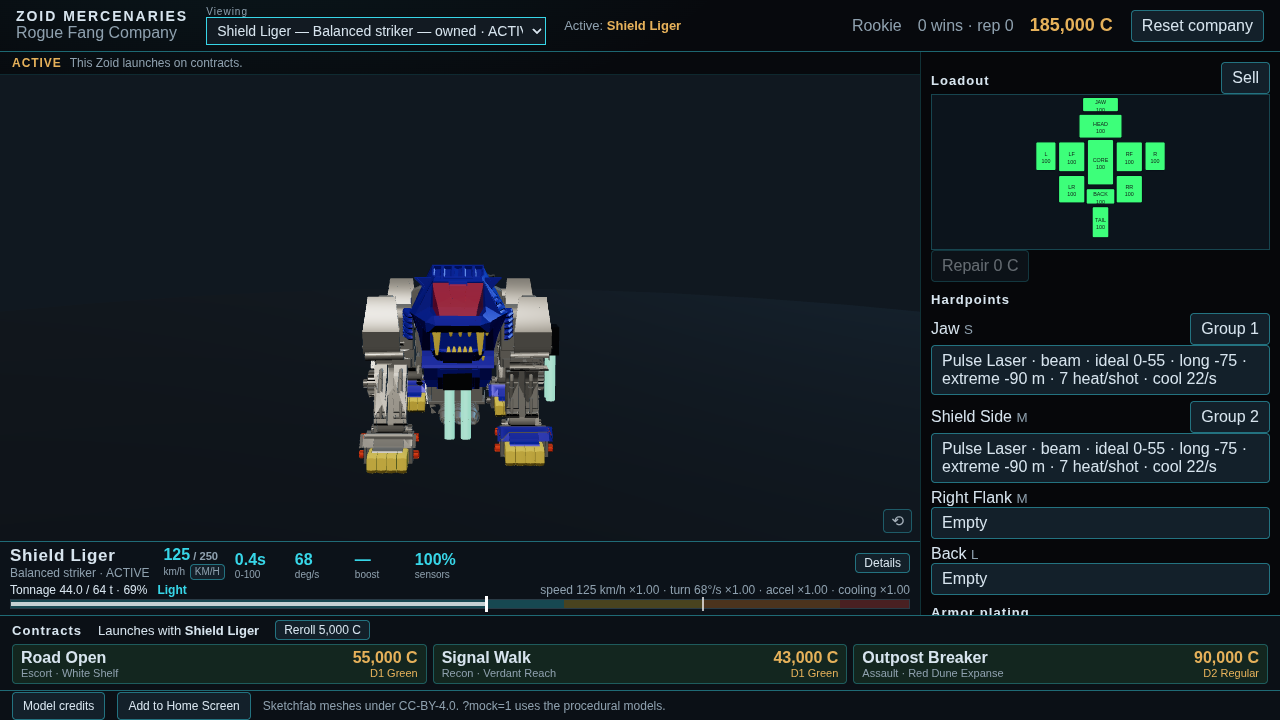
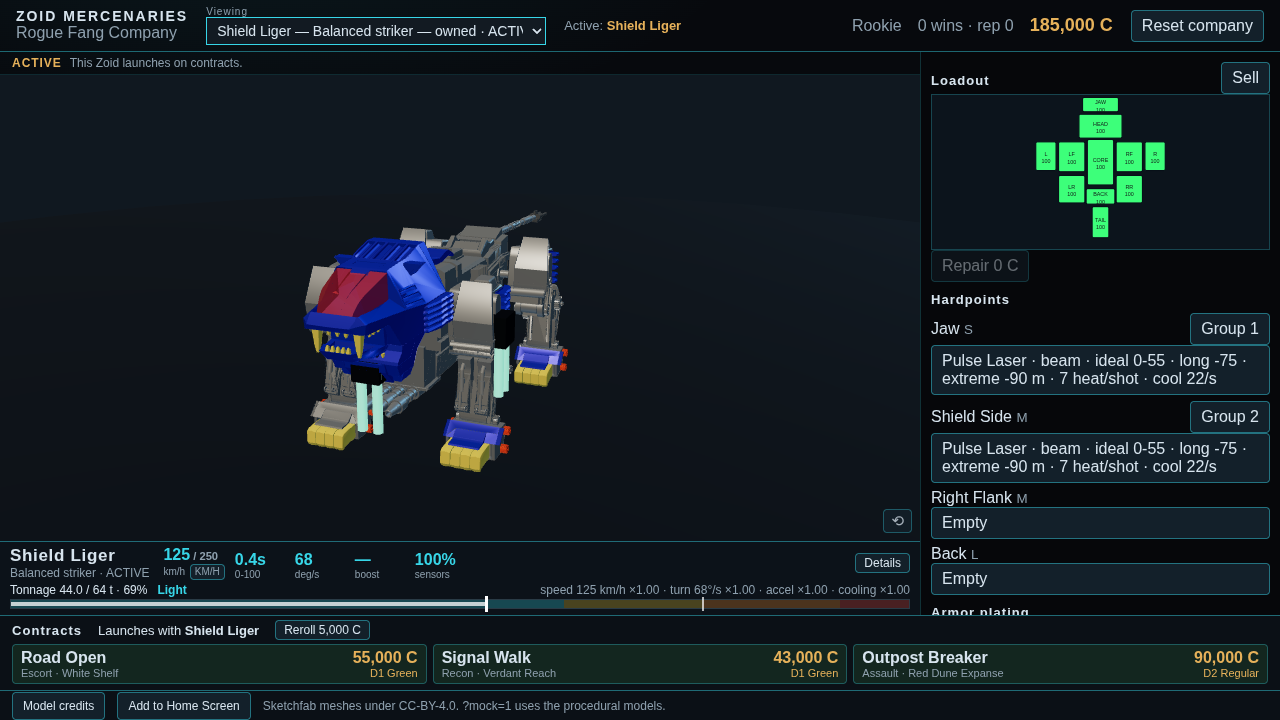
Hangar viewer: true spherical orbit (360 yaw, pitch -85..+85, no flip), floor hidden from below + under fill light, zoom 0.35-2.5x with no-clip distance floor, right-drag/two-finger pan; tests for top/underside/rear/zoom bounds; notes; sw zoids-v4

Changed region(s): [[0.2188, 0.275, 0.4688, 0.6722]]

diff --git a/js/hangar.js b/js/hangar.js
@@ -491,6 +491,7 @@ export function showHangar(state, hooks) {
   window.__ZOIDS__.ready = true;
   window.__ZOIDS__.previewParts = () => preview.parts();
   window.__ZOIDS__.previewView = () => preview.viewState();
+  window.__ZOIDS__.previewSetView = (v) => preview.setView(v);
   window.__ZOIDS__.installMode = installMode;
 
   let closed = false;
@@ -547,13 +548,17 @@ function createPreview(canvas) {
   const scene = new Scene();
   scene.background = new Color(0x101820);
   const camera = new PerspectiveCamera(32, 1, 0.1, 200);
-  scene.add(new HemisphereLight(0xd7e6f2, 0x1c140e, 0.85));
+  scene.add(new HemisphereLight(0xd7e6f2, 0x3a3f48, 0.85));
   const key = new DirectionalLight(0xfff4e0, 1.6);
   key.position.set(-4, 8, 6);
   scene.add(key);
   const rim = new DirectionalLight(0x6ec8ff, 0.6);
   rim.position.set(6, 3, -4);
   scene.add(rim);
+  // Soft fill from below so the underside view isn't a silhouette.
+  const under = new DirectionalLight(0x9fb8cc, 1.4);
+  under.position.set(1, -8, 2);
+  scene.add(under);
   const floor = new Mesh(
     new CircleGeometry(18, 40),
     new MeshStandardMaterial({ color: 0x1a222c, roughness: 1, metalness: 0 }),
@@ -562,20 +567,25 @@ function createPreview(canvas) {
   scene.add(floor);
   let model = null;
   const SPIN0 = Math.PI - 0.55;
-  const LIFT0 = 0.32;
+  // Default orbit = the old fixed framing (behind-left of the nose, slightly raised).
+  const AZ0 = Math.atan2(0.38, 1);
+  const PITCH0 = Math.atan2(0.32, Math.hypot(1, 0.38));
+  const PITCH_MIN = (-85 * Math.PI) / 180;
+  const PITCH_MAX = (85 * Math.PI) / 180;
   let spin = SPIN0;
   let running = true;
 
   // Showcase controls (custom; three's OrbitControls isn't vendored).
-  // Drag = rotate (yaw) and tilt (camera lift), wheel / pinch = zoom within
-  // limits scaled by the Zoid's size, double-click / double-tap / reset button
-  // = default view. Auto-spin pauses while interacting, resumes after 3 s.
-  const ZOOM_MIN = 0.55;
-  const ZOOM_MAX = 1.8;
-  const LIFT_MIN = -0.05;
-  const LIFT_MAX = 1.1;
+  // True spherical orbit around the model's centre: drag = 360 yaw + pitch
+  // from -85 (underside) to +85 (top-down), clamped so lookAt never flips.
+  // Wheel / pinch = zoom (limits scale with the Zoid's size, and the camera
+  // never gets closer than the model's bounding radius). Right-drag or
+  // two-finger drag pans. Double-click / double-tap / reset button = default.
+  // Auto-spin pauses while interacting, resumes after 3 s.
+  const ZOOM_MIN = 0.35;
+  const ZOOM_MAX = 2.5;
   const RESUME_MS = 3000;
-  const view = { yaw: 0, zoom: 1, lift: LIFT0, lastInput: -Infinity, dragging: false };
+  const view = { yaw: 0, pitch: PITCH0, zoom: 1, panX: 0, panY: 0, mode: "orbit", lastInput: -Infinity, dragging: false };
   const pointers = new Map();
   let pinchDist = 0;
   let lastTap = 0;
@@ -587,12 +597,31 @@ function createPreview(canvas) {
   function resetView() {
     spin = SPIN0;
     view.yaw = 0;
+    view.pitch = PITCH0;
     view.zoom = 1;
-    view.lift = LIFT0;
+    view.panX = 0;
+    view.panY = 0;
     view.lastInput = -Infinity;
   }
   function zoomBy(factor) {
     view.zoom = clampN(view.zoom * factor, ZOOM_MIN, ZOOM_MAX);
+    touch();
+  }
+  function orbitBy(dx, dy) {
+    view.yaw -= dx * 0.01;
+    view.pitch = clampN(view.pitch + dy * 0.01, PITCH_MIN, PITCH_MAX);
+  }
+  function panBy(dx, dy) {
+    const lim = (model && model.frameSize ? model.frameSize : 6) * 0.6;
+    const k = (view.dist || 10) * 0.0016;
+    view.panX = clampN(view.panX - dx * k, -lim, lim);
+    view.panY = clampN(view.panY + dy * k, -lim, lim);
+    touch();
+  }
+  function setView(v) {
+    if (v.yaw != null) view.yaw = v.yaw;
+    if (v.pitch != null) view.pitch = clampN(v.pitch, PITCH_MIN, PITCH_MAX);
+    if (v.zoom != null) view.zoom = clampN(v.zoom, ZOOM_MIN, ZOOM_MAX);
     touch();
   }
   function onDown(e) {
@@ -600,6 +629,7 @@ function createPreview(canvas) {
     try { canvas.setPointerCapture(e.pointerId); } catch { /* synthetic or already released */ }
     pointers.set(e.pointerId, { x: e.clientX, y: e.clientY });
     view.dragging = true;
+    view.mode = e.button === 2 || e.shiftKey ? "pan" : "orbit";
     touch();
     if (pointers.size === 2) {
       const [a, b] = [...pointers.values()];
@@ -631,10 +661,12 @@ function createPreview(canvas) {
       const d = Math.hypot(a.x - b.x, a.y - b.y);
       if (pinchDist > 0 && d > 0) zoomBy(pinchDist / d);
       pinchDist = d;
+      // Two-finger drag pans by half of each finger's move (midpoint shift).
+      panBy((cur.x - prev.x) / 2, (cur.y - prev.y) / 2);
       return;
     }
-    view.yaw -= (cur.x - prev.x) * 0.01;
-    view.lift = clampN(view.lift + (cur.y - prev.y) * 0.004, LIFT_MIN, LIFT_MAX);
+    if (view.mode === "pan") panBy(cur.x - prev.x, cur.y - prev.y);
+    else orbitBy(cur.x - prev.x, cur.y - prev.y);
     touch();
   }
   function onUp(e) {
@@ -702,23 +734,33 @@ function createPreview(canvas) {
       model.root.getWorldDirection(fwd);
       fwd.y = 0;
       fwd.normalize();
-      // User orbit: swing the camera around the Zoid by view.yaw.
-      fwd.applyAxisAngle(UP, view.yaw);
       const right = new Vector3().crossVectors(fwd, UP);
-      // Pulled in ~20% now the stage has the whole centre column to itself.
-      // Big frames (Elephander) also back the camera off by their real size.
       if (!model.frameSize) {
-        const size = new Box3().setFromObject(model.visual).getSize(new Vector3());
+        const box = new Box3().setFromObject(model.visual);
+        const size = box.getSize(new Vector3());
         model.frameSize = Math.max(size.x, size.y, size.z);
+        model.frameRadius = size.length() / 2;
+        model.frameCenterY = box.getCenter(new Vector3()).y - model.root.position.y;
       }
-      // Zoom limits follow the Zoid's size because dist does.
-      const dist = Math.max((8 + (model.def.scale || 1) * 4.2) * 0.8, model.frameSize * 1.75) * view.zoom;
+      // Zoom limits follow the Zoid's size because the base distance does;
+      // never closer than the bounding radius + near-plane margin.
+      const base = Math.max((8 + (model.def.scale || 1) * 4.2) * 0.8, model.frameSize * 1.75);
+      const dist = Math.max(base * view.zoom, model.frameRadius * 1.15 + 0.5);
       view.dist = dist;
-      camera.position.copy(model.root.position)
-        .addScaledVector(fwd, -dist)
-        .addScaledVector(right, dist * 0.38)
-        .add(new Vector3(0, dist * view.lift, 0));
-      camera.lookAt(0, 1.6 * (model.def.scale || 1), 0);
+      // Spherical orbit around the model's centre (+ pan in screen space).
+      const az = AZ0 + view.yaw;
+      const horiz = fwd.clone().multiplyScalar(-Math.cos(az)).addScaledVector(right, Math.sin(az));
+      const dir = horiz.multiplyScalar(Math.cos(view.pitch)).add(new Vector3(0, Math.sin(view.pitch), 0)).normalize();
+      const center = new Vector3(model.root.position.x, model.root.position.y + model.frameCenterY, model.root.position.z);
+      const camRight = new Vector3().crossVectors(UP, dir).normalize();
+      const camUp = new Vector3().crossVectors(dir, camRight).normalize();
+      center.addScaledVector(camRight, view.panX).addScaledVector(camUp, view.panY);
+      camera.position.copy(center).addScaledVector(dir, dist);
+      camera.up.copy(UP);
+      camera.lookAt(center);
+      view.center = center;
+      // Below the floor: hide it so the underside is visible cleanly.
+      floor.visible = camera.position.y > 0.05;
     }
     resize();
     renderer.render(scene, camera);
@@ -729,10 +771,19 @@ function createPreview(canvas) {
   return {
     show,
     viewState() {
-      return { spin, yaw: view.yaw, zoom: view.zoom, lift: view.lift, dist: view.dist || 0, dragging: view.dragging,
+      const c = view.center || new Vector3();
+      const fwd = new Vector3();
+      if (model) { model.root.getWorldDirection(fwd); fwd.y = 0; fwd.normalize(); }
+      const toCam = camera.position.clone().sub(c).setY(0).normalize();
+      return { spin, yaw: view.yaw, pitch: view.pitch, pitchDeg: (view.pitch * 180) / Math.PI, zoom: view.zoom,
+        panX: view.panX, panY: view.panY, dist: view.dist || 0, radius: model ? model.frameRadius : 0,
+        camY: camera.position.y, centerY: c.y, floorVisible: floor.visible,
+        // +1 = camera on the tail side (rear view), -1 = nose side.
+        tailSide: toCam.dot(fwd), dragging: view.dragging,
         autoSpin: !view.dragging && performance.now() - view.lastInput > RESUME_MS, zoomMin: ZOOM_MIN, zoomMax: ZOOM_MAX };
     },
     resetView,
+    setView,
     parts() {
       if (!model) return null;
       const counts = {};

diff --git a/sw.js b/sw.js
@@ -2,7 +2,7 @@
 // Bump CACHE_VERSION whenever shipped files change so players get updates.
 // Shell files use network-first (fresh when online, cached when offline);
 // models and icons use cache-first within the current version.
-const CACHE_VERSION = "zoids-v3";
+const CACHE_VERSION = "zoids-v4";
 const SHELL = [
     "./",
     "index.html",
